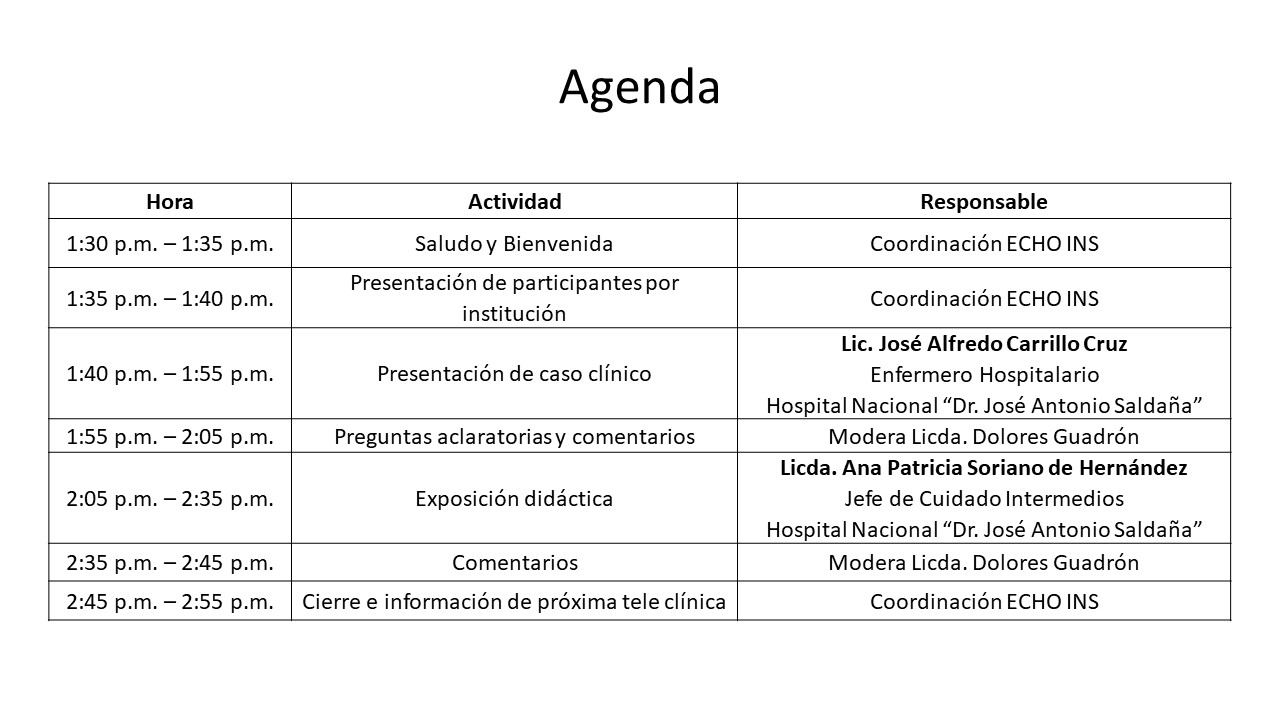
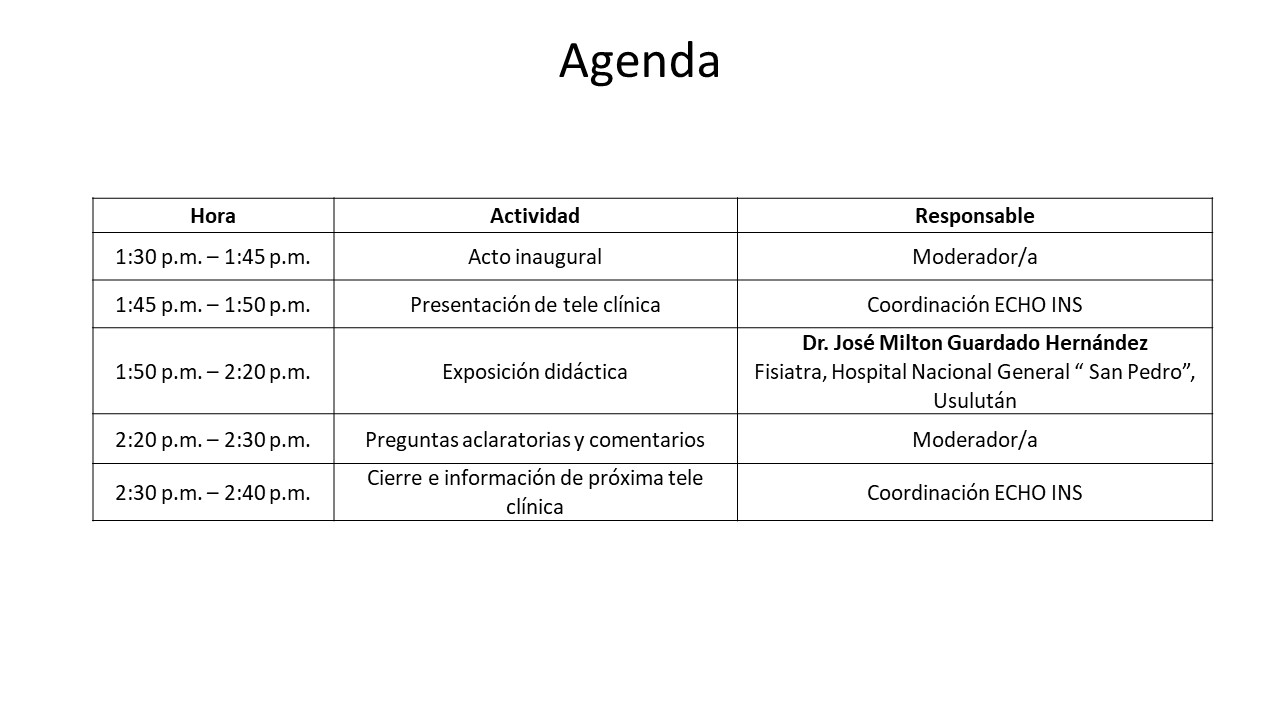
invitacion 5 de octubre

diff --git a/index.html b/index.html
@@ -141,15 +141,17 @@
               border-color: lightseagreen;">
               <div style="border: 5px solid; border-color: greenyellow; padding: 0.25rem;">
                 <br><br>
-                <h1>Jueves 21 de septiembre de 2021                </h1>
+                <h1>Martes 5 de octubre 2021                </h1>
                 <h2> Hora: 1:30 p.m.               </h2>
 
                 <!--<h2>Presenta</h2>-->
-                <h2>Presentan Caso Clínico </h2>                               
-                <h2><strong>Lic. José Alfredo Carrillo Cruz </strong>                </h2>
+                <h2>Presenta </h2>                               
+                <h2><strong>Dr. José Milton Guardado Hernández                </strong>                </h2>
+                <p>Fisiatra
+                  Hospital Nacional General “ San Pedro”, Usulután
+                  </p> 
                 <br>
-                <h2>Exposición didáctica:  </h2>                               
-                <h2><strong>Licda. Ana Patricia Soriano de Hernández  </strong>                </h2>
+                
                 <!--
                 <h2>Presenta Exposición Didáctica:                </h2>                               
                 <h2><strong>Dr. Mynor Martínez</strong>                </h2>-->
@@ -180,7 +182,7 @@
             <td class="bg-white" align="center" style="background-color:#ffffff;     border: 5px solid;
             border-color: lightseagreen;">
               <div style="border: 5px solid; border-color: greenyellow; padding: 0.25rem;">
-                <a href="https://echo.zoom.us/meeting/register/tJUqdOmspz8tEtew3ls5h1Q9tr_4wTMVb4xO" target="_blank"
+                <a href="https://echo.zoom.us/meeting/register/tJAtceqgrTsuG90fWEFdJd-bBl-oIP3GufJX" target="_blank"
                   rel="noopener noreferrer">
                   <h1>REGÍSTRESE AQUÍ</h1>
                 </a>
